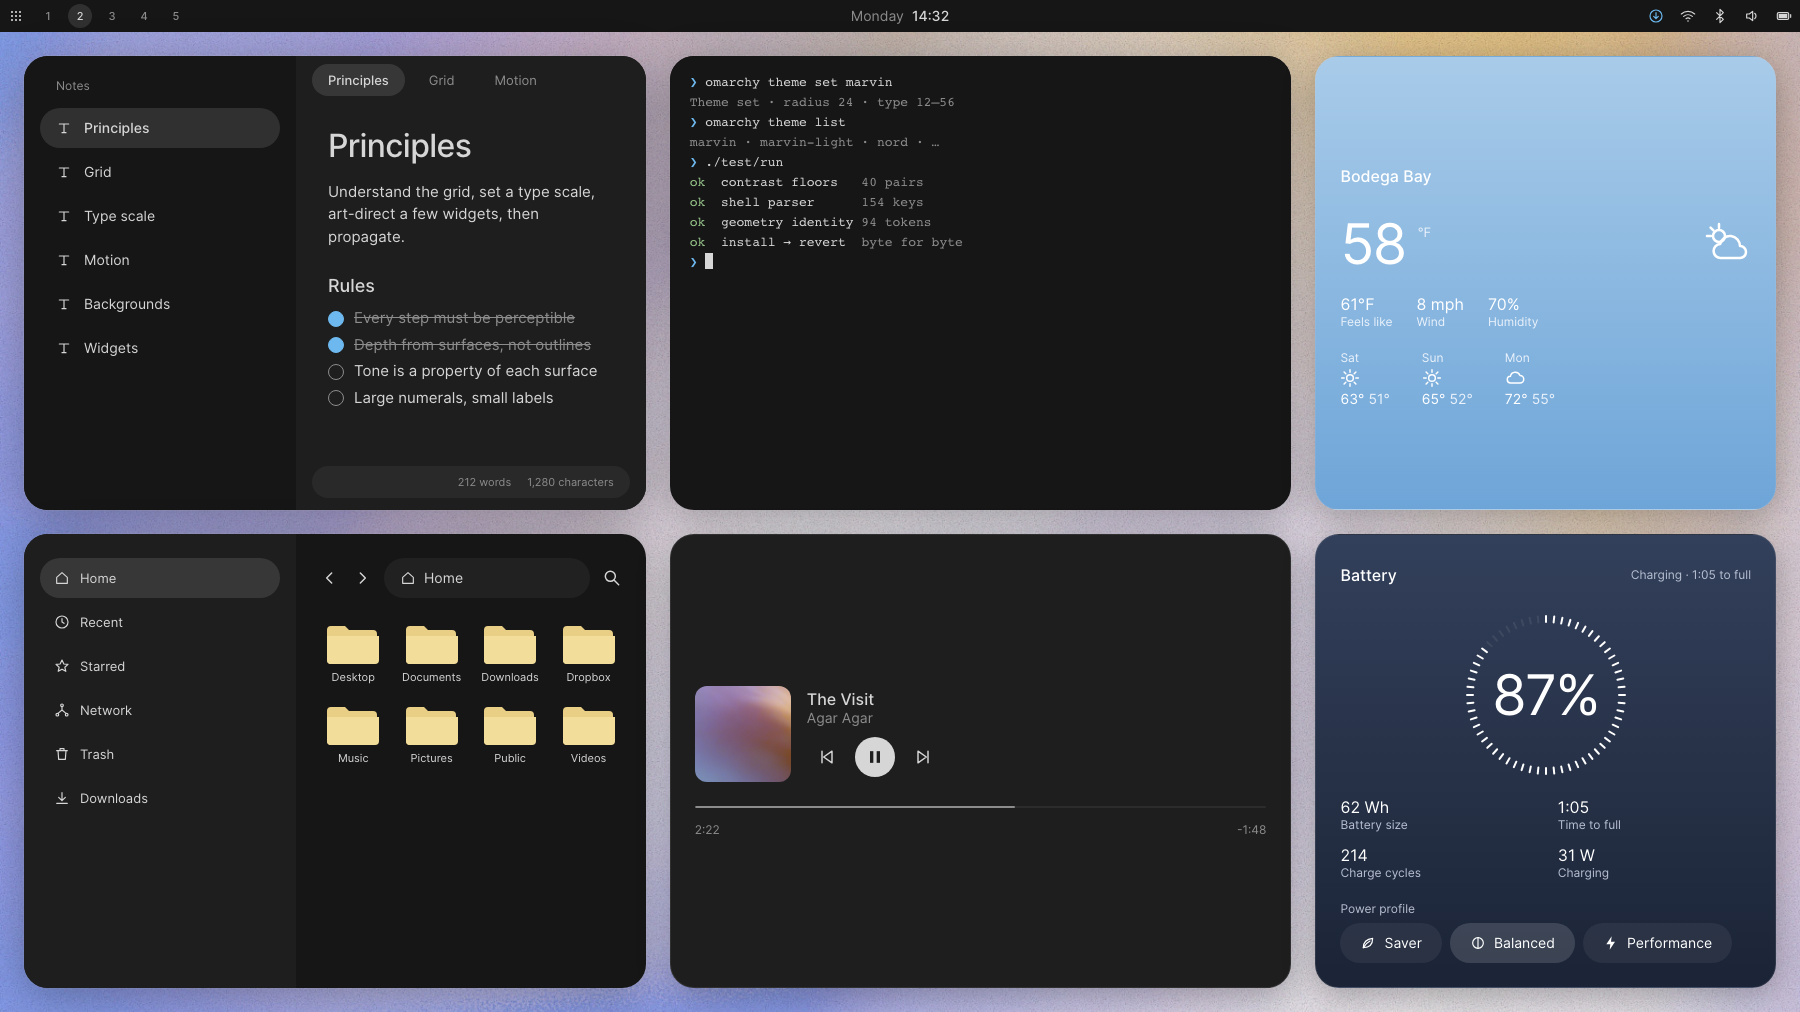
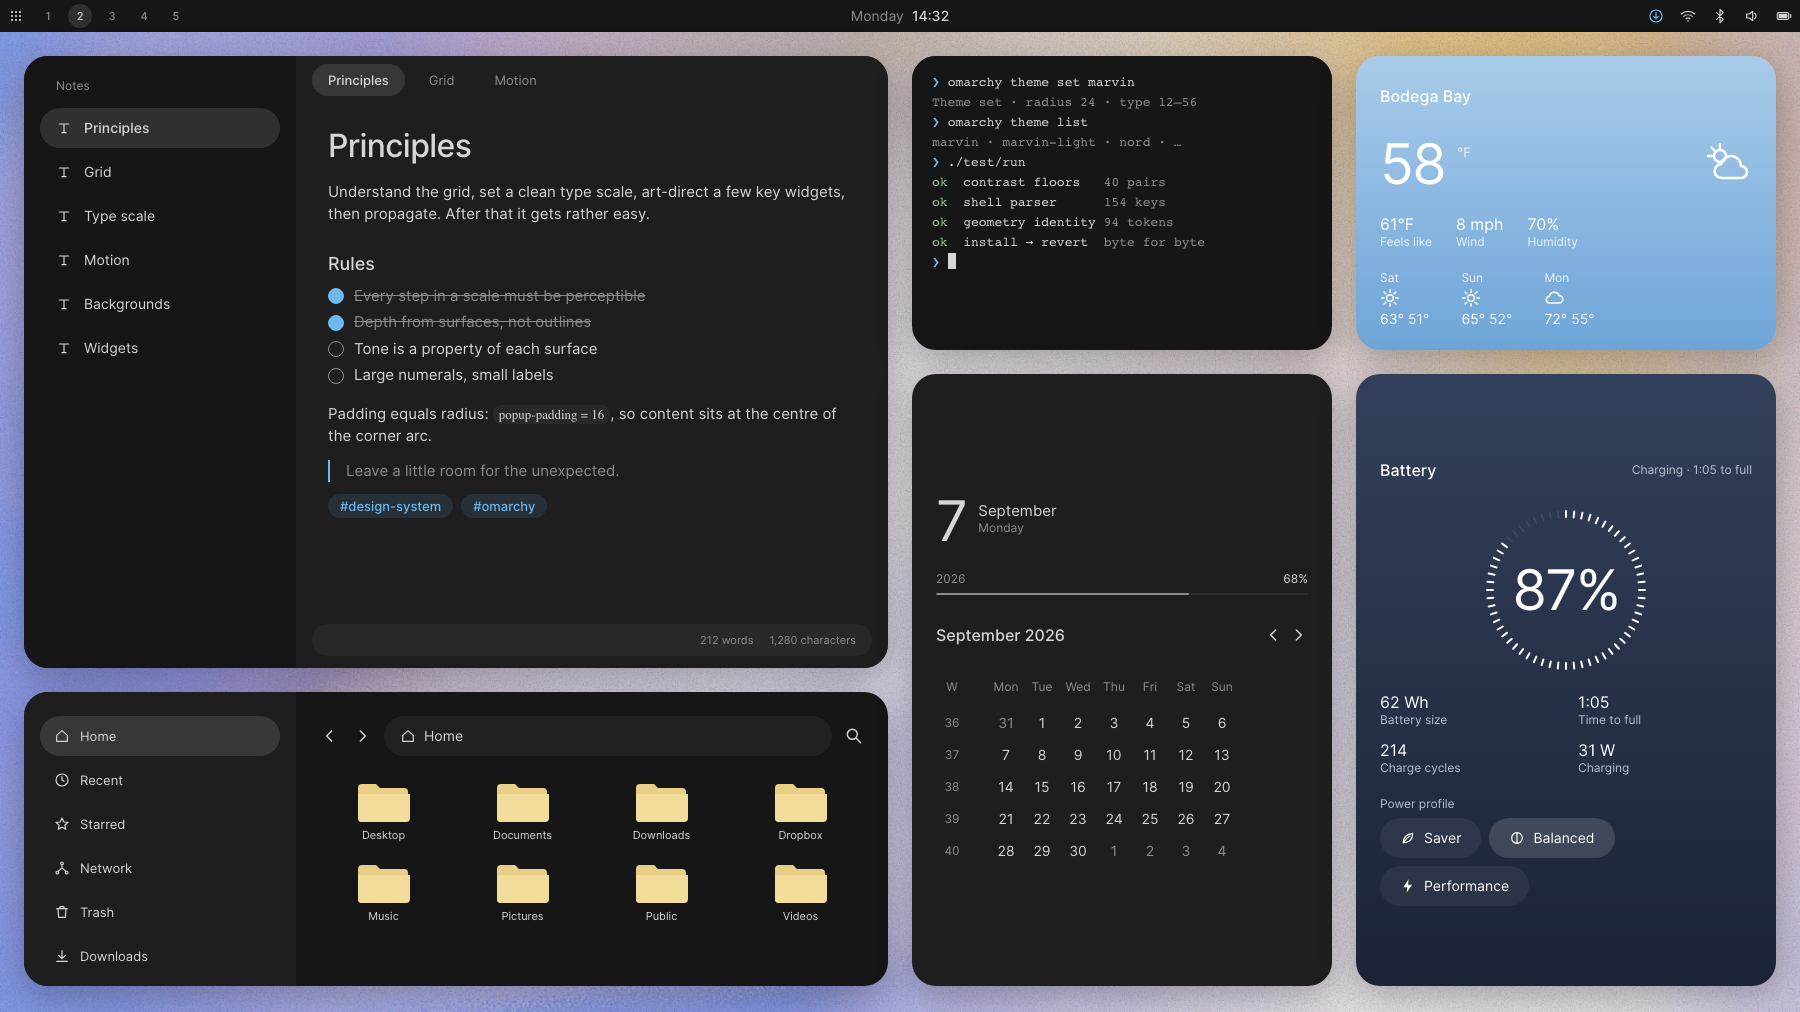
Vary the bento tile sizes, add the calendar, credit Marvin at the top
The composed desktop is now a varied bento rather than a uniform grid: a
big 2x2 Notes tile, a wide Files bar, small Terminal and Weather tiles, and
tall Calendar (the date) and Battery tiles — all on uniform 24px gutters with
equal edge margins. Tiles are absolutely positioned at computed coordinates
for reliable rendering, each clipped to a rounded surface with a hairline and
a soft drop shadow.

Fixed a stray-div bug in the Notes tile that had been nesting every other
tile inside it (and clipping them under overflow:hidden).

The README now opens with a centered credit to Marvin Schwaibold and the post
that started the project.

diff --git a/tools/previews/build.py b/tools/previews/build.py
@@ -297,28 +297,29 @@ body{{background:url('file://{t["wall"]}') center/cover}}
 .si{{height:40px;border-radius:20px;padding:0 16px;display:flex;align-items:center;gap:12px;color:var(--fg)}}.si.on{{background:rgba(var(--fg-rgb),var(--a3))}}
 .files .main{{padding:24px}}.files .top{{display:flex;align-items:center;gap:12px;margin-bottom:24px}}.files .top .pathf{{height:40px;flex:1;border-radius:20px;background:rgba(var(--fg-rgb),var(--a1));display:flex;align-items:center;padding:0 16px;gap:8px}}
 .fgrid{{display:grid;grid-template-columns:repeat(4,1fr);gap:20px 12px}}.fd{{display:flex;flex-direction:column;align-items:center;gap:8px;font-size:11px}}
-.desk{{position:absolute;left:24px;right:24px;top:56px;bottom:24px;display:grid;gap:24px;grid-template-columns:1.35fr 1.35fr 1fr;grid-template-rows:1fr 1fr;grid-auto-flow:column}}
-.desk>.win{{position:static;width:auto;height:auto}}
-.desk>.card{{width:100%!important;height:100%!important;justify-content:center}}
+.tile{{position:absolute;border-radius:24px;overflow:hidden;box-shadow:0 10px 36px rgba(0,0,0,var(--sh)),inset 0 0 0 1px rgba(var(--fg-rgb),var(--a2))}}
+.tile>.win{{position:static;width:100%;height:100%;box-shadow:none;border-radius:0}}
+.tile>.card{{width:100%!important;height:100%!important;justify-content:center;box-shadow:none;border:none;border-radius:0}}
 </style></head><body>
 {bar(t)}
-<div class="desk">
-<div class="win focus">
+<div class="tile" style="left:24px;top:56px;width:864px;height:612px"><div class="win focus">
   <div class="obs"><div class="sb"><div class="vault">Notes</div>{obs_side}</div>
   <div class="ed"><div class="tabs"><div class="tab on">Principles</div><div class="tab">Grid</div><div class="tab">Motion</div></div>
   <div class="doc"><h1>Principles</h1>
-  <p>Understand the grid, set a type scale, art-direct a few widgets, then propagate.</p>
+  <p>Understand the grid, set a clean type scale, art-direct a few key widgets, then propagate. After that it gets rather easy.</p>
   <h2>Rules</h2>
-  <div class="chk"><i class="d"></i><s>Every step must be perceptible</s></div>
+  <div class="chk"><i class="d"></i><s>Every step in a scale must be perceptible</s></div>
   <div class="chk"><i class="d"></i><s>Depth from surfaces, not outlines</s></div>
   <div class="chk"><i></i>Tone is a property of each surface</div>
-  <div class="chk"><i></i>Large numerals, small labels</div></div>
-  <div class="status"><span>212 words</span><span>1,280 characters</span></div></div></div>
-</div>
-<div class="win">
+  <div class="chk"><i></i>Large numerals, small labels</div>
+  <p style="margin-top:16px">Padding equals radius: <code>popup-padding = 16</code>, so content sits at the centre of the corner arc.</p>
+  <blockquote>Leave a little room for the unexpected.</blockquote>
+  <p><span class="tag">#design-system</span><span class="tag">#omarchy</span></p></div>
+  <div class="status"><span>212 words</span><span>1,280 characters</span></div></div></div></div></div>
+<div class="tile" style="left:24px;top:692px;width:864px;height:294px"><div class="win">
   <div class="files"><div class="sb">{side}</div><div class="main"><div class="top">{ic("chevron_left",20)}{ic("chevron_right",20)}<div class="pathf">{ic("home",16)}Home</div>{ic("search",20)}</div><div class="fgrid">{fgrid}</div></div></div>
-</div>
-<div class="win">
+</div></div>
+<div class="tile" style="left:912px;top:56px;width:420px;height:294px"><div class="win">
   <div class="term mono"><span class="p">❯</span> omarchy theme set marvin
 <span class="c">Theme set · radius 24 · type 12–56</span>
 <span class="p">❯</span> omarchy theme list
@@ -329,11 +330,10 @@ body{{background:url('file://{t["wall"]}') center/cover}}
 <span style="color:{t["green"]}">ok</span>  geometry identity <span class="c">94 tokens</span>
 <span style="color:{t["green"]}">ok</span>  install → revert  <span class="c">byte for byte</span>
 <span class="p">❯</span> <span style="display:inline-block;width:8px;height:16px;background:var(--fg);vertical-align:-3px"></span></div>
-</div>
-{w["media"]}
-{w["weather"]}
-{w["power"]}
-</div>
+</div></div>
+<div class="tile" style="left:1356px;top:56px;width:420px;height:294px">{w["weather"]}</div>
+<div class="tile" style="left:912px;top:374px;width:420px;height:612px">{w["clock"]}</div>
+<div class="tile" style="left:1356px;top:374px;width:420px;height:612px">{w["power"]}</div>
 </body></html>"""
 
 def boot(t, fonts):

diff --git a/README.md b/README.md
@@ -1,5 +1,7 @@
 # Marvin
 
+<p align="center"><em>Inspired by, and named for, <a href="https://x.com/MSchwaibold">Marvin Schwaibold</a> — <a href="https://x.com/MSchwaibold/status/2096059496812716307">the post</a> that started this whole project.</em></p>
+
 A design system for [Omarchy 4](https://omarchy.org), delivered as a theme, a
 reversible config layer, and fourteen restyled widgets — with 63 wallpapers
 included.
